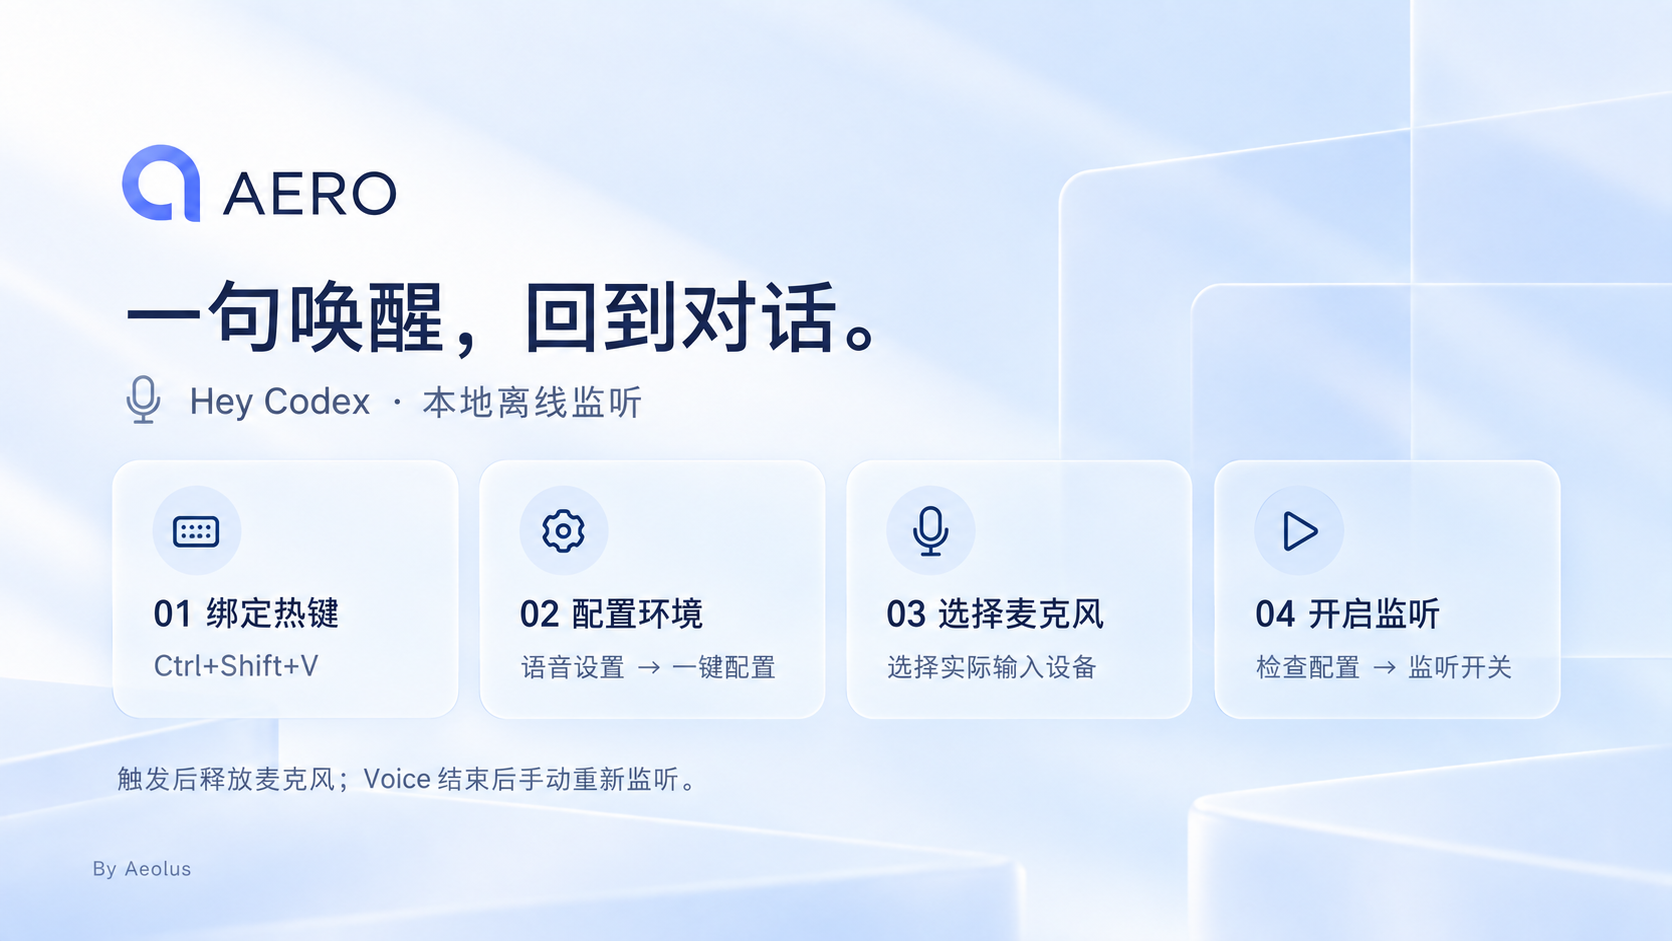
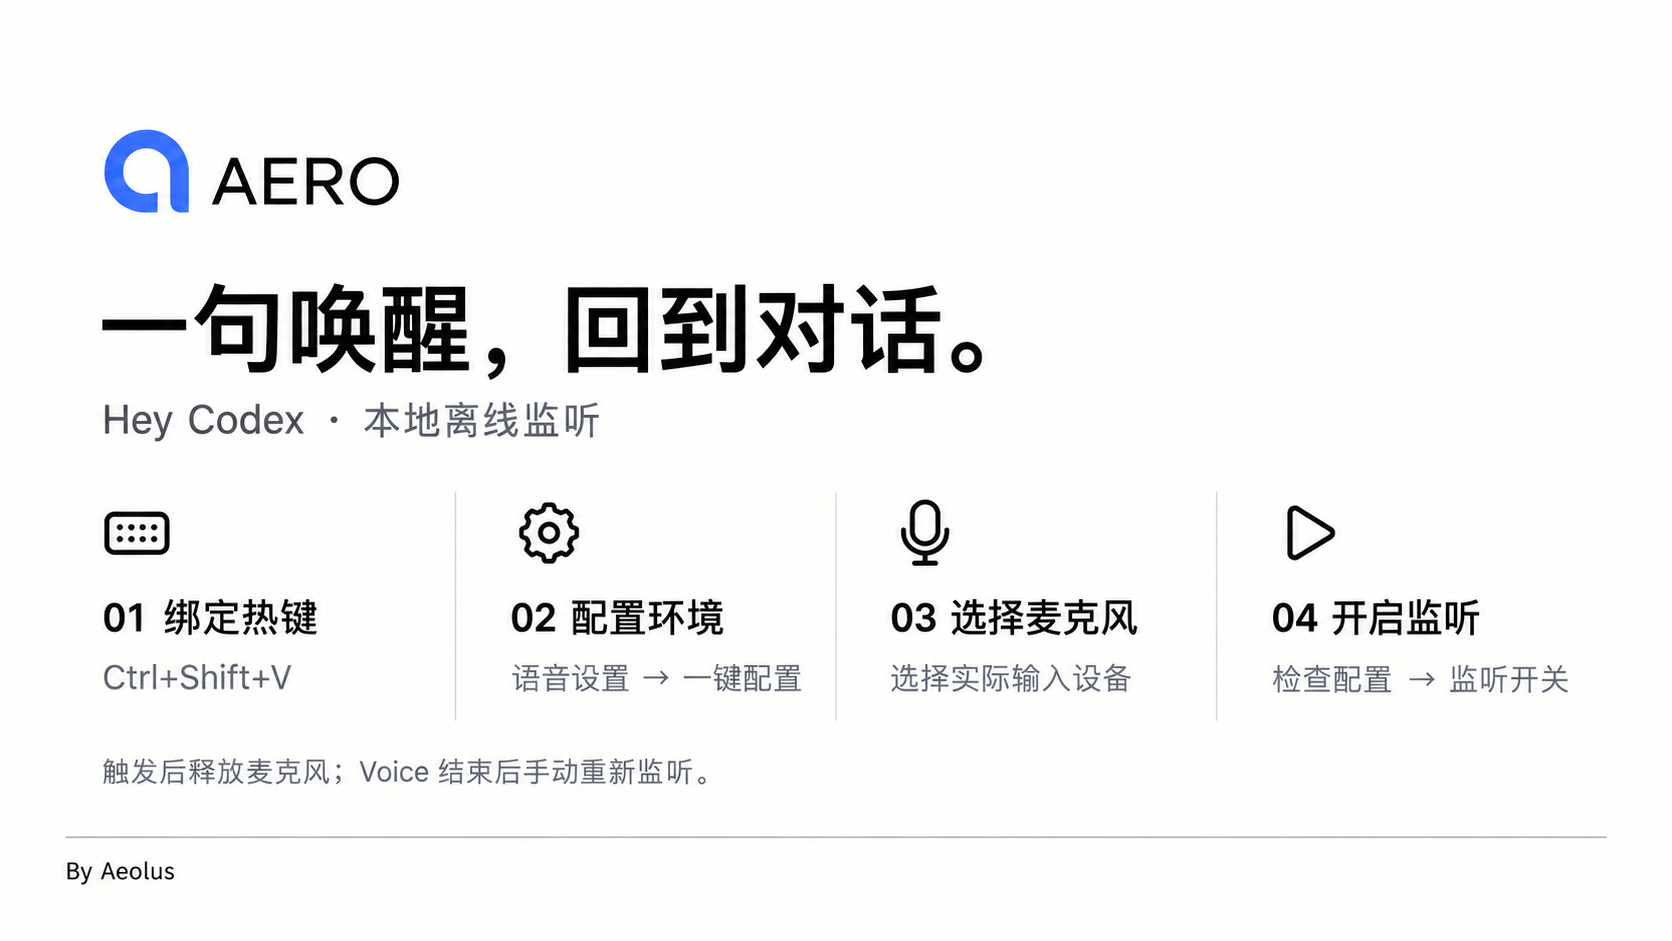
docs: adopt flat editorial Aero campaign style

diff --git a/docs/promo-art-direction.md b/docs/promo-art-direction.md
@@ -2,16 +2,16 @@
 
 生成方式：内置 image_gen。宣传图不是实机截图，不替代产品功能说明。图片文案与构图方向如下，供后续品牌素材延展。
 
-统一规范：三张图使用同一主视觉作为样式参考，冷白 / 冰蓝背景、深蓝正文、左上 Logo 与 AERO 字标、左下署名；标题采用一致的中等字重无衬线风格（提示词指定 Segoe UI / Microsoft YaHei UI），副标题与正文保持相同层级。生成图片是栅格视觉，不包含可核验的字体文件。Logo 沿用 `public/aero-logo.svg` 的圆环与右侧下垂笔画，不重新设计；颜色使用 Air 蓝。图像编辑时以既有托盘标志轮廓为参考，并将新版主视觉作为其他两张的统一样式参考。
+统一规范：借鉴 Apple、OpenAI 的克制编辑排版，但只使用 AERO 自有品牌。三张图使用同一平面主视觉作为参考：暖白纯色背景、黑色标题、灰色副标题、左上 Logo 与 AERO 字标、底部细线和左下署名。大面积留白与统一无衬线字体层级；蓝色用于现有圆环式 Logo，其他色彩仅用于状态灯。去掉玻璃场景、装饰渐变、光晕、深阴影和地面反射，保持二维图形表达。生成图片是栅格视觉，不包含可核验的字体文件。Logo 沿用 `public/aero-logo.svg` 的圆环与右侧下垂笔画，不重新设计。宣传图风格转换不代表应用外观变化。
 
 ## 品牌主视觉 · aero-promo-hero.png
 
-提示词：编辑既有横向 AERO 主视觉，加入原有圆环式 Logo 与 AERO 字标；冷白与淡冰蓝背景、轻盈半透明圆角层、浅阴影、弱反光，不做实体硬件。保留六个任务灯、迷你栏第七个返回控件及现有按钮比例。标题“让任务留在视野里。”，副标题“轻盈悬浮，随手掌控。”，署名“By Aeolus”。以此图建立后续两张的字体、Logo、边距、背景和标题层级参考。
+提示词：将既有横向 AERO 主视觉改为严格二维编辑海报，暖白纯色背景、黑色大标题、灰色副标题，大面积留白与模块网格。保留原有圆环式 Logo、字标和实际完整栏 / 迷你栏布局；灯为平面色圆，六灯加迷你返回按钮。移除玻璃舞台、渐变背景、阴影、反光、发光和立体场景。标题“让任务留在视野里。”，副标题“轻盈悬浮，随手掌控。”，底部细分隔线与“By Aeolus”。建立后续两张的统一字体、边距、Logo 和标题层级参考。
 
 ## 迷你状态栏 · aero-promo-mini.png
 
-提示词：编辑既有迷你栏宣传图，匹配新版品牌主视觉的 Logo、字体风格、标题字重、边距、署名和冷白冰蓝背景。迷你栏本身保持深色，保留蓝、绿、黄、白、粉、蓝六灯及返回按钮，共七个圆形控件，均匀居中。标题“少一点切换，多一点专注。”，副标题“六个任务灯，安静地留在视野里。”。弱反光、浅阴影，不做霓虹、强地面反射或实体设备。
+提示词：以新版平面主视觉为权威参考，统一暖白背景、Logo、字体层级、黑灰文字、边距与细线署名。居中展示平面黑色迷你栏，保留蓝、绿、黄、白、粉、蓝六灯及返回按钮，共七个圆形控件。标题“少一点切换，多一点专注。”，副标题“六个任务灯，安静地留在视野里。”。去掉所有玻璃背景、装饰光晕、立体按钮、反光和投影，不添加虚构功能。
 
 ## 本地语音唤醒 · aero-promo-voice.png
 
-提示词：编辑既有语音宣传图，匹配新版品牌主视觉的字体风格、标题层级、Logo、边距、冷白冰蓝背景与署名。标题“一句唤醒，回到对话。”，副标题“Hey Codex · 本地离线监听”。四张圆角说明卡横向排列：“01 绑定热键 / Ctrl+Shift+V”“02 配置环境 / 语音设置 → 一键配置”“03 选择麦克风 / 选择实际输入设备”“04 开启监听 / 检查配置 → 监听开关”。卡片下方注明“触发后释放麦克风；Voice 结束后手动重新监听。”。这是配置教学插画，不是假想应用界面，不添加云上传或无限免费语音承诺。
+提示词：语音配置海报匹配新版平面主视觉的字体、Logo、暖白背景、网格与署名，去掉玻璃卡片。标题“一句唤醒，回到对话。”，副标题“Hey Codex · 本地离线监听”。四个开放式编辑栏目由细竖线分隔，使用黑色线形图标：“01 绑定热键 / Ctrl+Shift+V”“02 配置环境 / 语音设置 → 一键配置”“03 选择麦克风 / 选择实际输入设备”“04 开启监听 / 检查配置 → 监听开关”。下方注明“触发后释放麦克风；Voice 结束后手动重新监听。”。保留准确配置内容，不添加云上传、无限语音承诺或假想应用界面。
